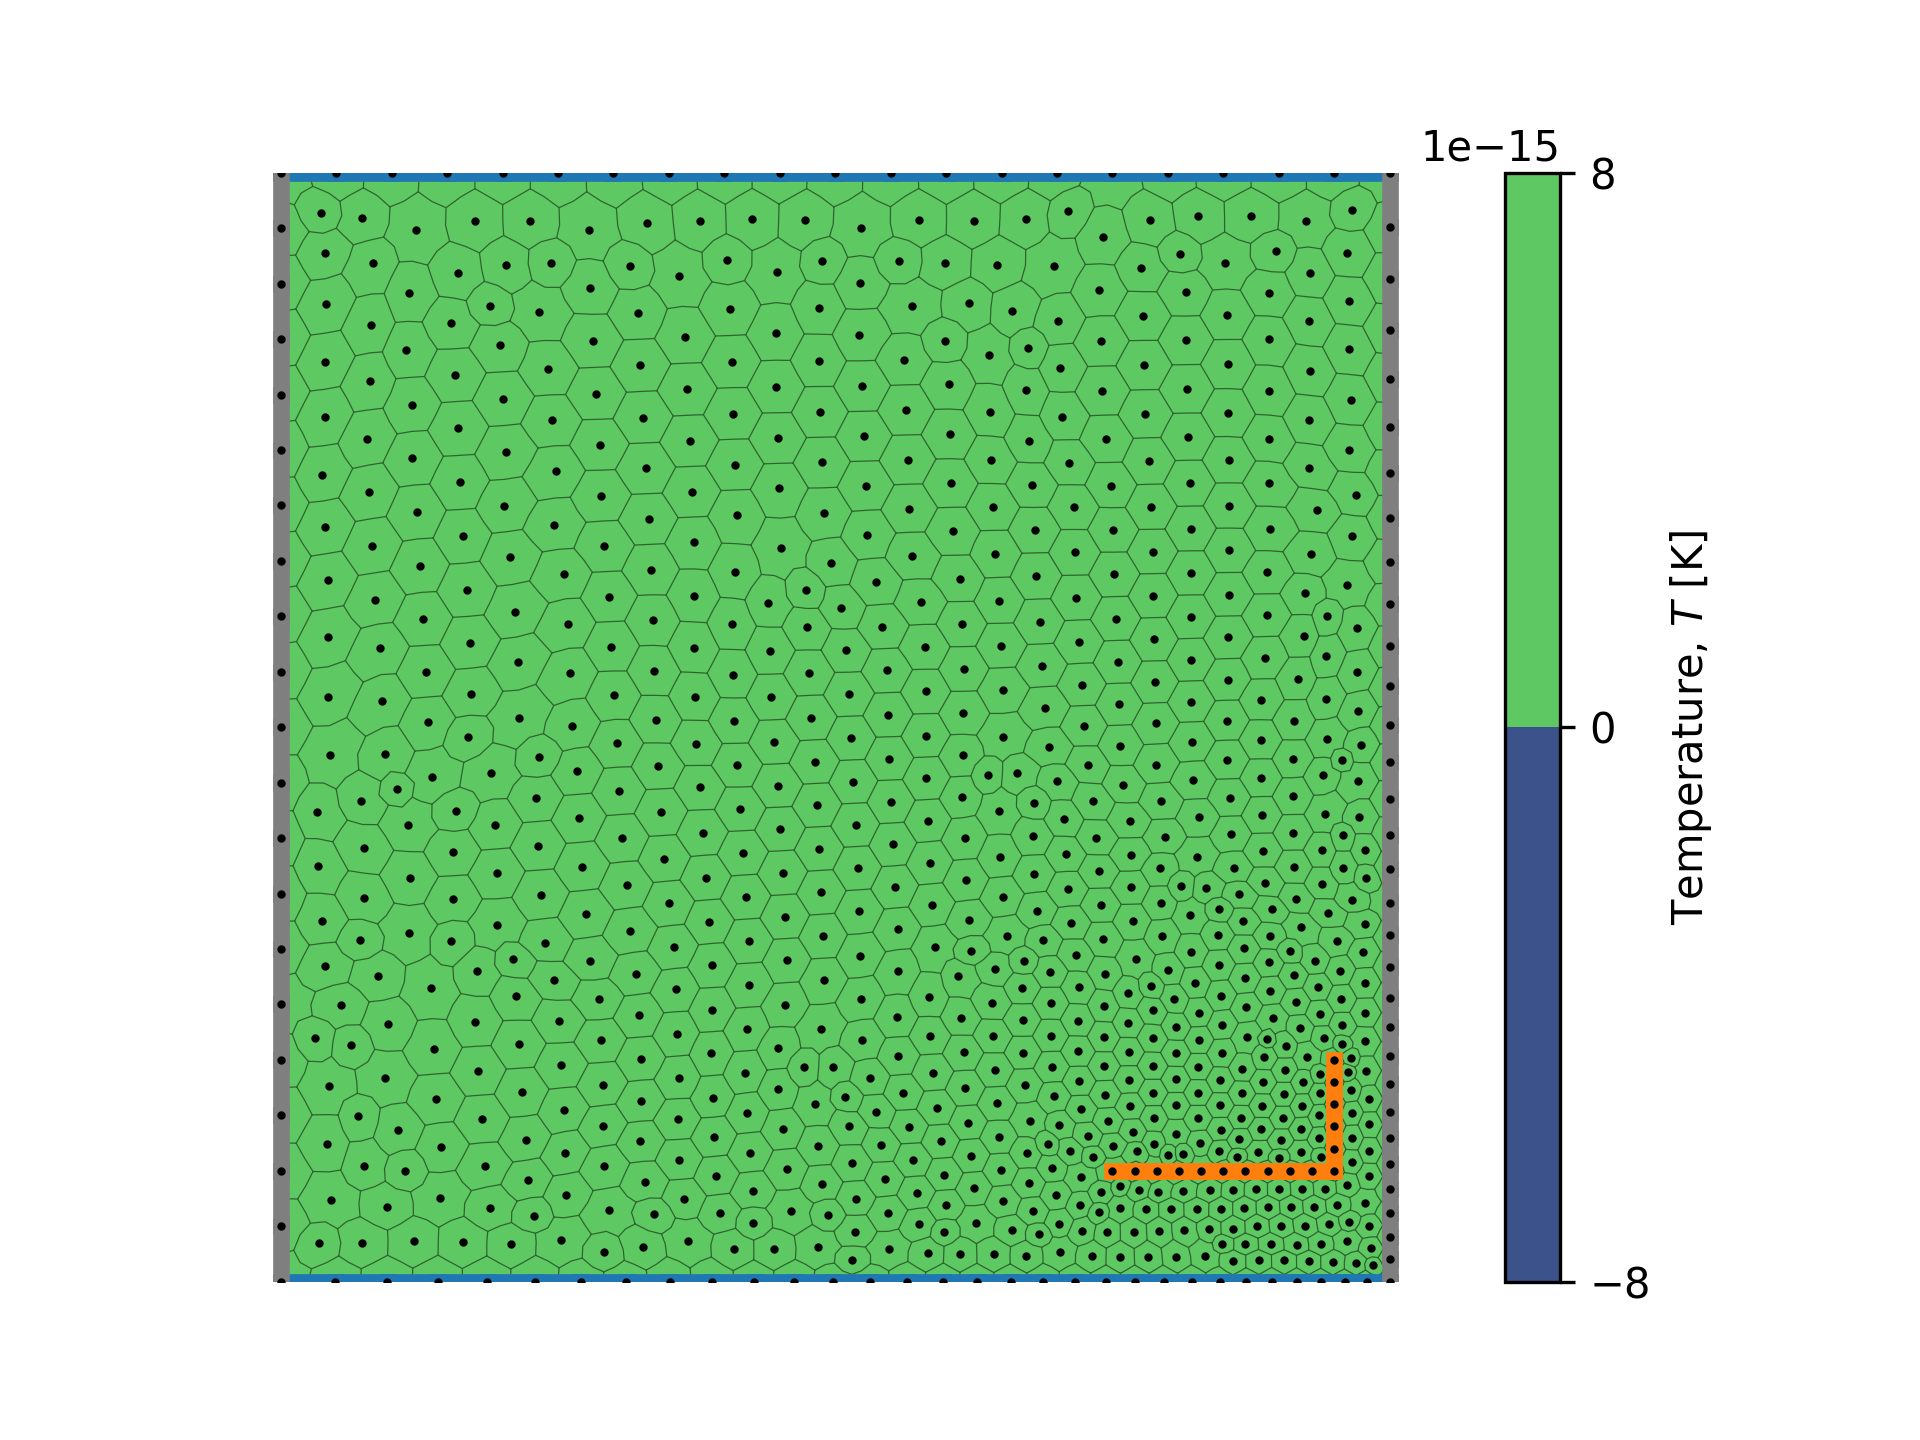
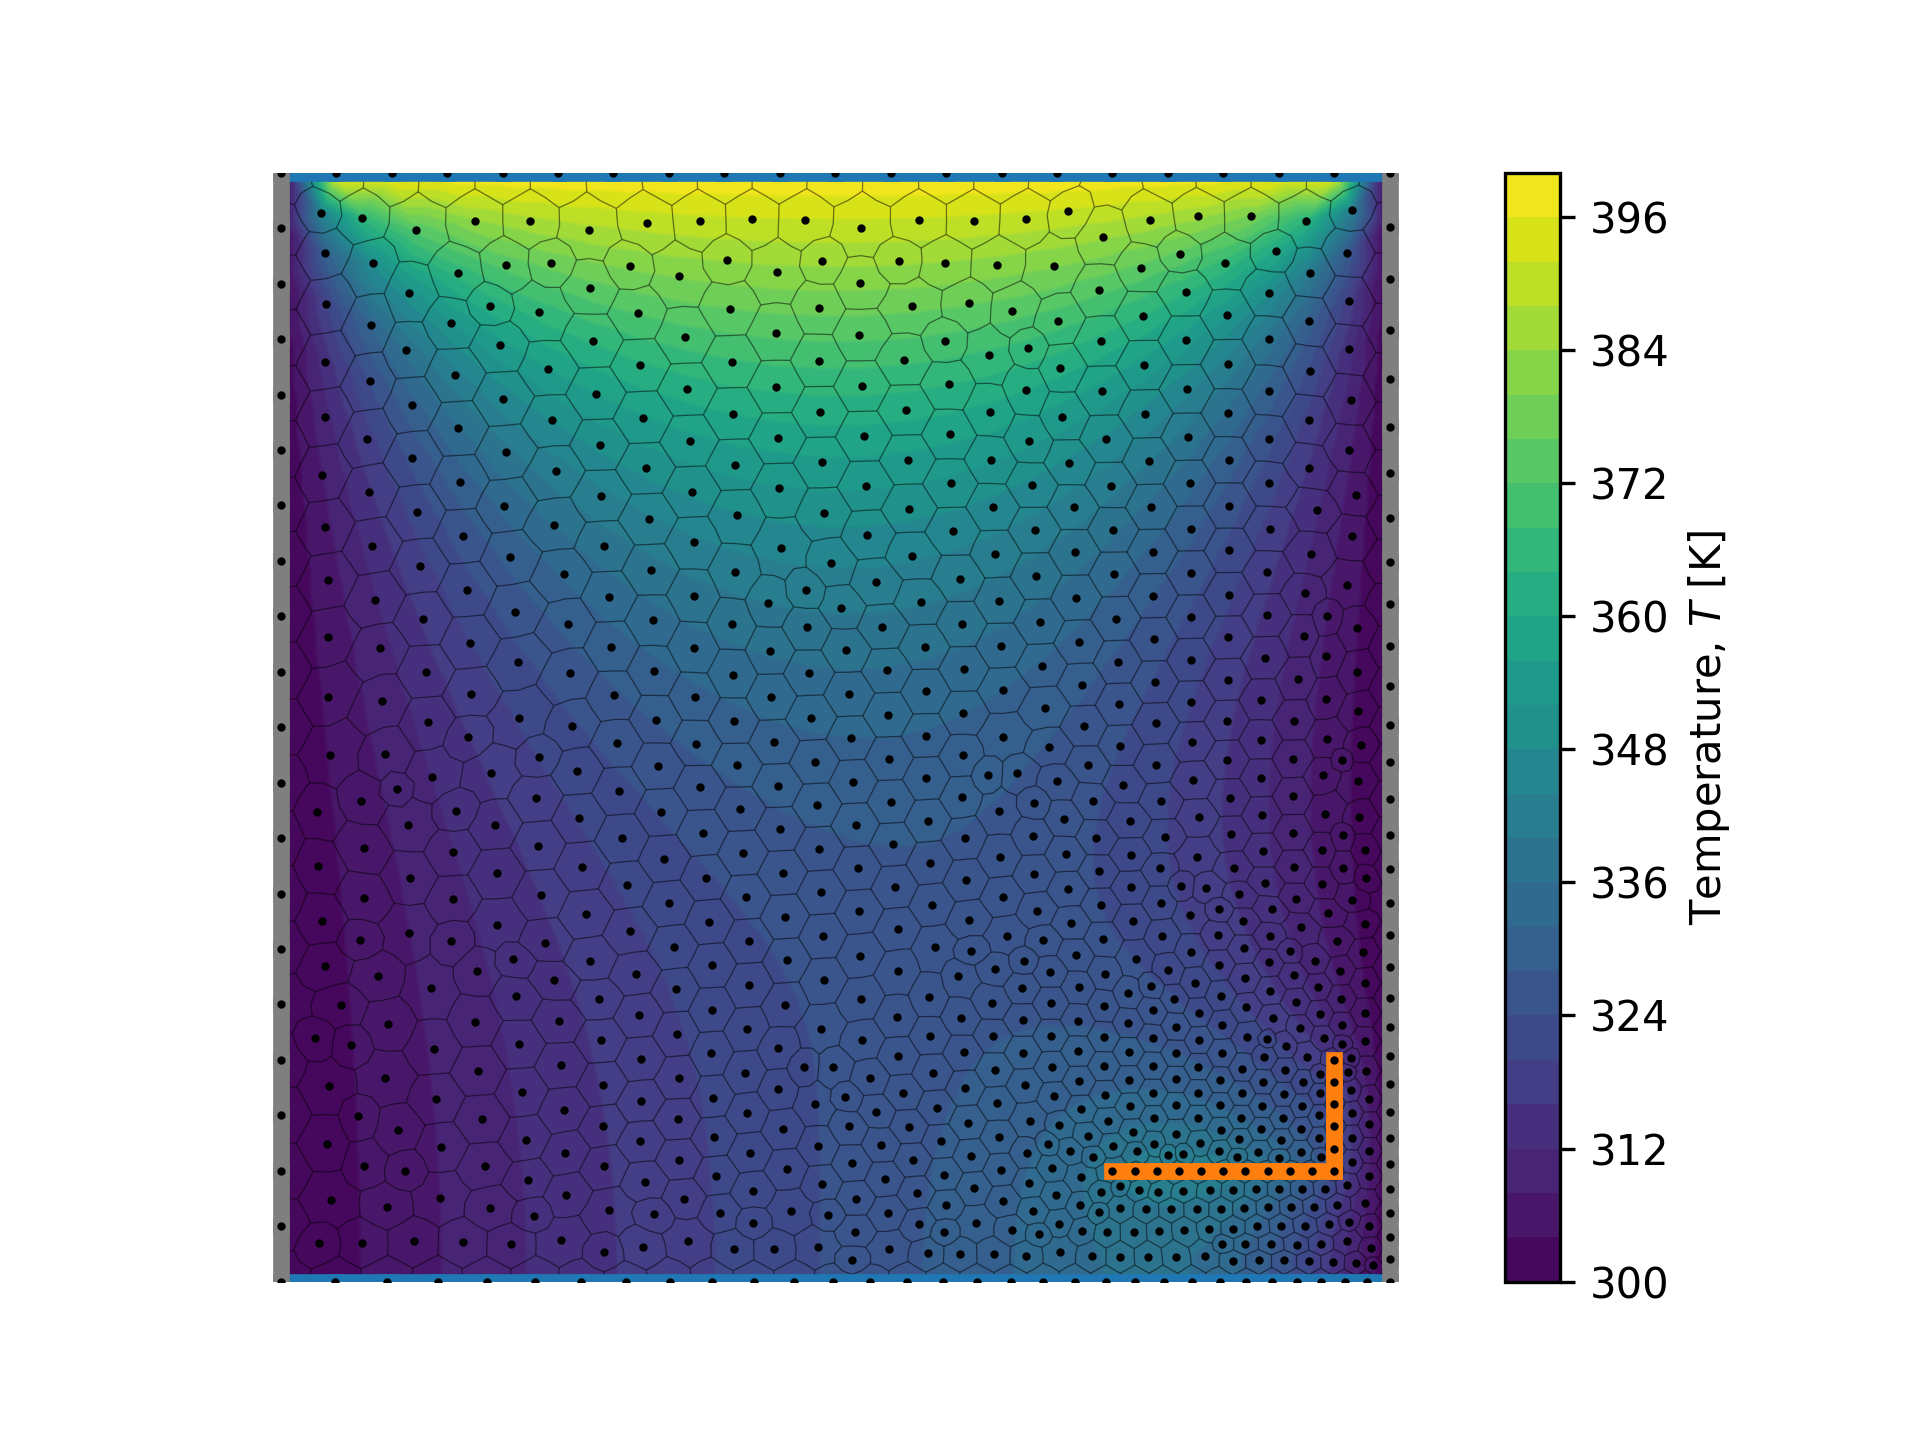
Finished Temperature Gradient for Steady State

diff --git a/Project/lib/_Solve.py b/Project/lib/_Solve.py
@@ -205,9 +205,9 @@ def build_generation_vector(mesh : dict) -> np.ndarray:
         generation_element = mesh['IC']['e'][interior_index]
         
         # ! Equation 22 from Project Handout !
-        volume_element = (DELTA_Z * np.abs(np.linalg.det(build_shape_matrix(x_element, y_element))) @ identity_matrix) / 6
+        volume_element = (DELTA_Z * np.abs(np.linalg.det(build_shape_matrix(x_element, y_element))) * identity_matrix) / 6
         
-        generation_vector[node_indices] += generation_element * volume_element
+        generation_vector[node_indices] += generation_element * volume_element.sum()
     
     
     return generation_vector
@@ -229,6 +229,9 @@ def steady_BCs(mesh : dict, conduction_matrix : sp.dok_array, generation_vector 
     # Extract the boundary element from the mesh dictionary
     mesh_elements = mesh['BE'].shape[0]
     
+    # Define the necessary matrices for the boundary condition application
+    distribution_vector = np.array([1, 1])
+    
     # Retrieve x and y coordinates for the nodes and the boundary element from mesh dictionary
     x_nodes, y_nodes = _store.get_nodes(mesh)
     element_nodes = mesh['BE'][_store.N1].values
@@ -244,7 +247,15 @@ def steady_BCs(mesh : dict, conduction_matrix : sp.dok_array, generation_vector 
     
         if np.isfinite(boundary_heat_flux):
             
-            pass
+            # Get x and y coordinates for the current element
+            x_element = x_nodes[node_indices]
+            y_element = y_nodes[node_indices]
+            
+            # Calculate the distance between the two nodes of the boundary element
+            euclidean_distance = np.sqrt((x_element[1] - x_element[0])**2 + (y_element[1] - y_element[0])**2)
+            
+            # ! Equation 39 from Project Handout !
+            generation_vector[node_indices] += (0.5 * DELTA_Z * boundary_heat_flux * euclidean_distance * distribution_vector)
         
     # Loop through each element in the mesh and compute the generation values
     for element_index in range(mesh_elements):
@@ -256,11 +267,18 @@ def steady_BCs(mesh : dict, conduction_matrix : sp.dok_array, generation_vector 
         boundary_temperature = mesh['BC']['T'][boundary_index]
     
         if np.isfinite(boundary_temperature):
+            
+            for temperature_node in node_indices:
+            
+                # ? All coefficients in the row corresponding to the target temperature,
+                # ? must be set to zero except for the diagonal elements, which must be set to 1.
+                conduction_matrix[temperature_node, :] = 0
+                conduction_matrix[temperature_node, temperature_node] = 1
+                
+                # ! Equation 39 from Project Handout !
+                generation_vector[temperature_node] = -boundary_temperature
 
-            pass
-        
-    
-
+            
 def transient_BCs(mesh : dict, capacity_matrix : sp.dok_array, conduction_matrix : sp.dok_array, 
                   generation_vector : np.ndarray, temperature_vector : np.ndarray) -> None:
     """

diff --git a/Project/Main.py b/Project/Main.py
@@ -131,16 +131,6 @@ def main():
     figure_path.append(mesh_figure)
     figure_names.append('mesh_figure')
     
-    # Build Sparse Matrix
-    sparse_matrix = _solve.build_conduction_matrix(mesh_data)
-    
-    # TODO: Implement Steady-State Boundary Conditions on the Sparse Matrix
-
-    # ! Create Figure 5 ⇒ Sparsity Pattern of Conduction Matrix !
-    sparsity_figure = _plot.plot_sparse_figure(sparse_matrix)
-    figure_path.append(sparsity_figure)
-    figure_names.append('sparsity_figure')
-    
     # Build Conduction Matrix & Generation Vector
     conduction_matrix = _solve.build_conduction_matrix(mesh_data)
     generation_vector = _solve.build_generation_vector(mesh_data)
@@ -149,11 +139,17 @@ def main():
     # TODO: Implement the function to apply steady-state boundary conditions in solver.py ⇒ steady_BCs()
     _solve.steady_BCs(mesh_data, conduction_matrix, generation_vector)
     
+    
+    # ! Create Figure 5 ⇒ Sparsity Pattern of Conduction Matrix !
+    sparsity_figure = _plot.plot_sparse_figure(conduction_matrix)
+    figure_path.append(sparsity_figure)
+    figure_names.append('sparsity_figure')
+
     # Solve for Steady-State Temperature Distribution
     temperature_distribution = _solve.sp.linalg.spsolve(conduction_matrix.tocsc(), generation_vector)
     
     # ! Create Figure 6 ⇒ Steady-State Temperature Distribution !
-    temperature_figure = _plot.draw_temperature_field_figure(mesh_data, temperature_distribution)
+    temperature_figure = _plot.draw_temperature_field_figure(mesh_data, -temperature_distribution)
     figure_path.append(temperature_figure)
     figure_names.append('temperature_figure')
     
